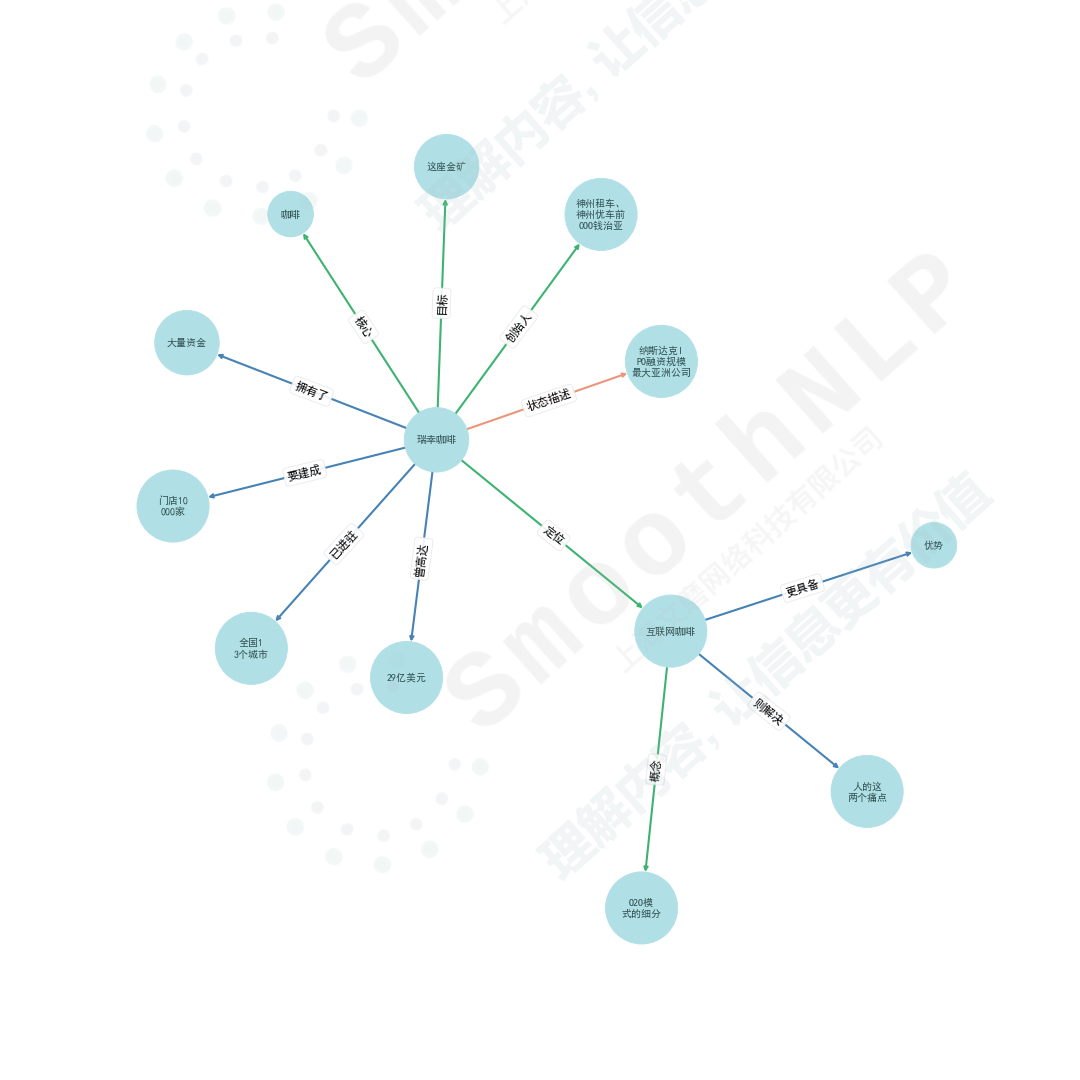
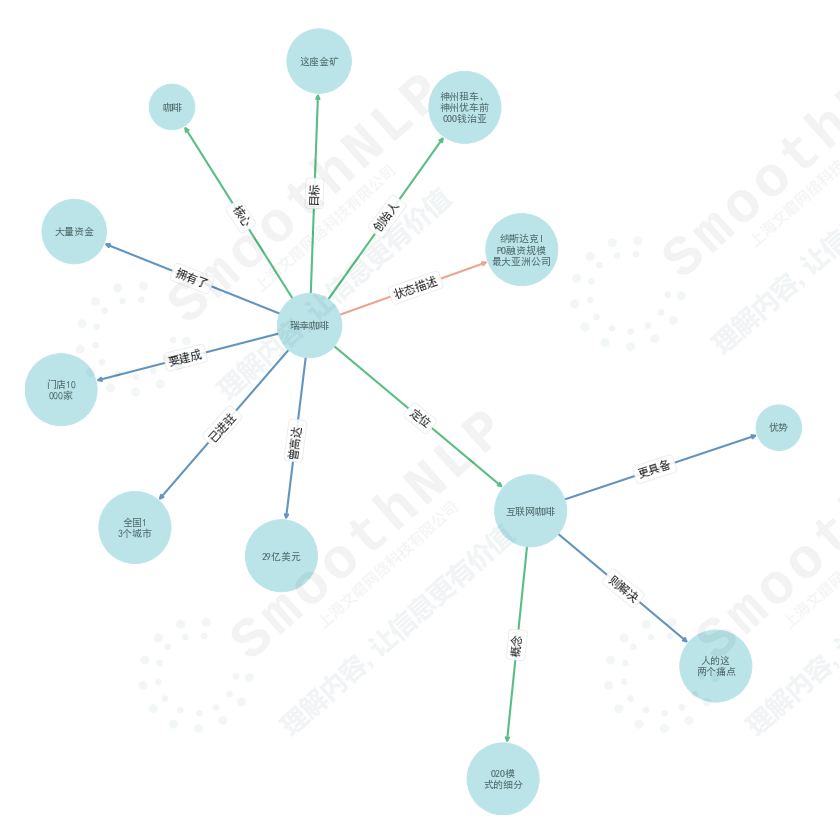
modify watermark

diff --git a/xiushang/visual.py b/xiushang/visual.py
@@ -109,12 +109,14 @@ def draw_graph(G,edges_dic,width,height,save_path=None):
     nodesize = {k:min(len(k), 5) * 1500 for k in G.nodes}
     
     ## 控制fig大小
-    if len(node_labels)>36:
+    if len(node_labels)>28:
         width, height = len(node_labels)*0.5,len(node_labels)*0.5
-    fig = plt.figure(figsize = (width, height),dpi=80)
+    fig = plt.figure(figsize = (width, height),dpi=60)
     ## 添加水印
     wm_img = plt.imread(pkg_resources.resource_filename('xiushang', 'resources/')+'watermark.png')
     fig.figimage(wm_img,alpha=0.15)
+    ## 获得绘制的句柄
+    ax = fig.add_axes([0.03, 0.03, 0.94, 0.94]) ## axes的左下角在fig的图像坐标上的位置 + axes在fig的图像坐标上x、y方向的长度
     ## draw nodes
     nx.draw_networkx_nodes(G, pos, 
                        node_color=[pattern_dic[t] for t in nx.get_node_attributes(G, "type").values()], 
@@ -124,7 +126,7 @@ def draw_graph(G,edges_dic,width,height,save_path=None):
                             labels=node_labels,
                             font_color="darkslategrey",font_size=12,font_family="SimHei")
 
-    ax = plt.gca()
+    ax = plt.gca() ## get current axes
     for k,v_lst in edges_dic.items():
 #         if set([v[3] for v in v_lst])==set(['注册商标']):  ## edge内容为“注册商标”时去重
 #             v_lst = v_lst[:1]
@@ -159,12 +161,12 @@ def draw_graph(G,edges_dic,width,height,save_path=None):
     for key, spine in ax.spines.items():  ## 删除边框
         spine.set_visible(False)
     if save_path:
-        plt.savefig(save_path)
+        plt.savefig(save_path,dpi=fig.dpi)
     plt.show()
     return 
 
    
-def graph_visual(rels,width:int=18,height:int=18,save_path=None):
+def graph_visual(rels,width:int=14,height:int=14,save_path=None):
     """
     :param rels: list or dict
     :param width, height: 窗口尺寸
@@ -186,7 +188,7 @@ def graph_visual(rels,width:int=18,height:int=18,save_path=None):
     return 
    
    
-def composedgraph_visual(rels,width:int=18,height:int=18,save_path=None):
+def composedgraph_visual(rels,width:int=14,height:int=14,save_path=None):
     """
     :param rels: list of list/ list of dict
     :param width, height: 窗口尺寸
